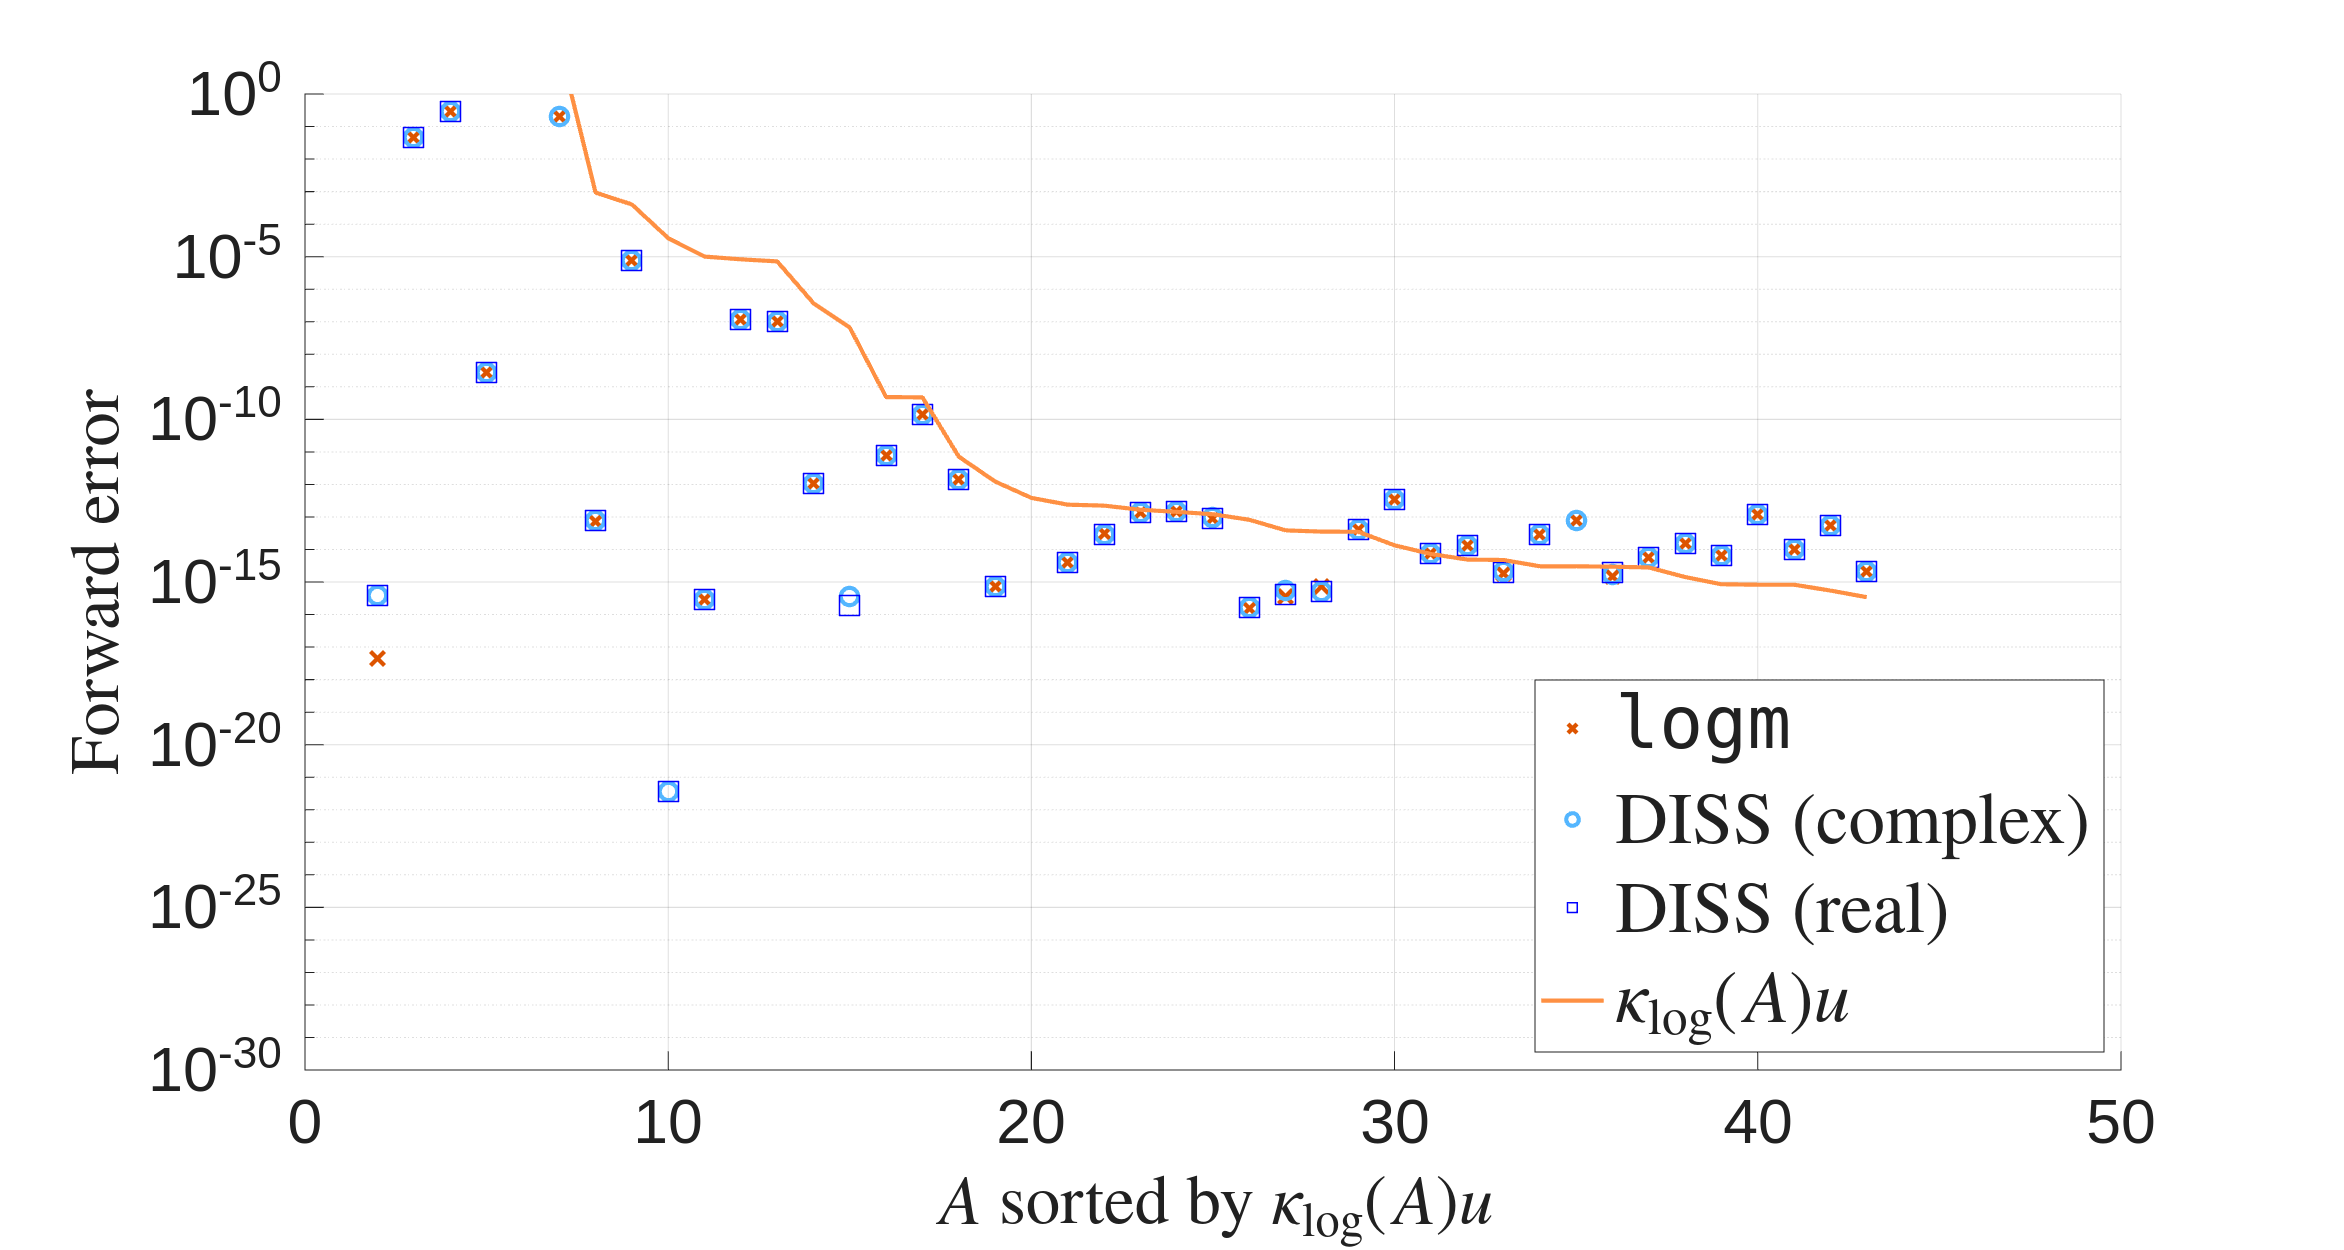
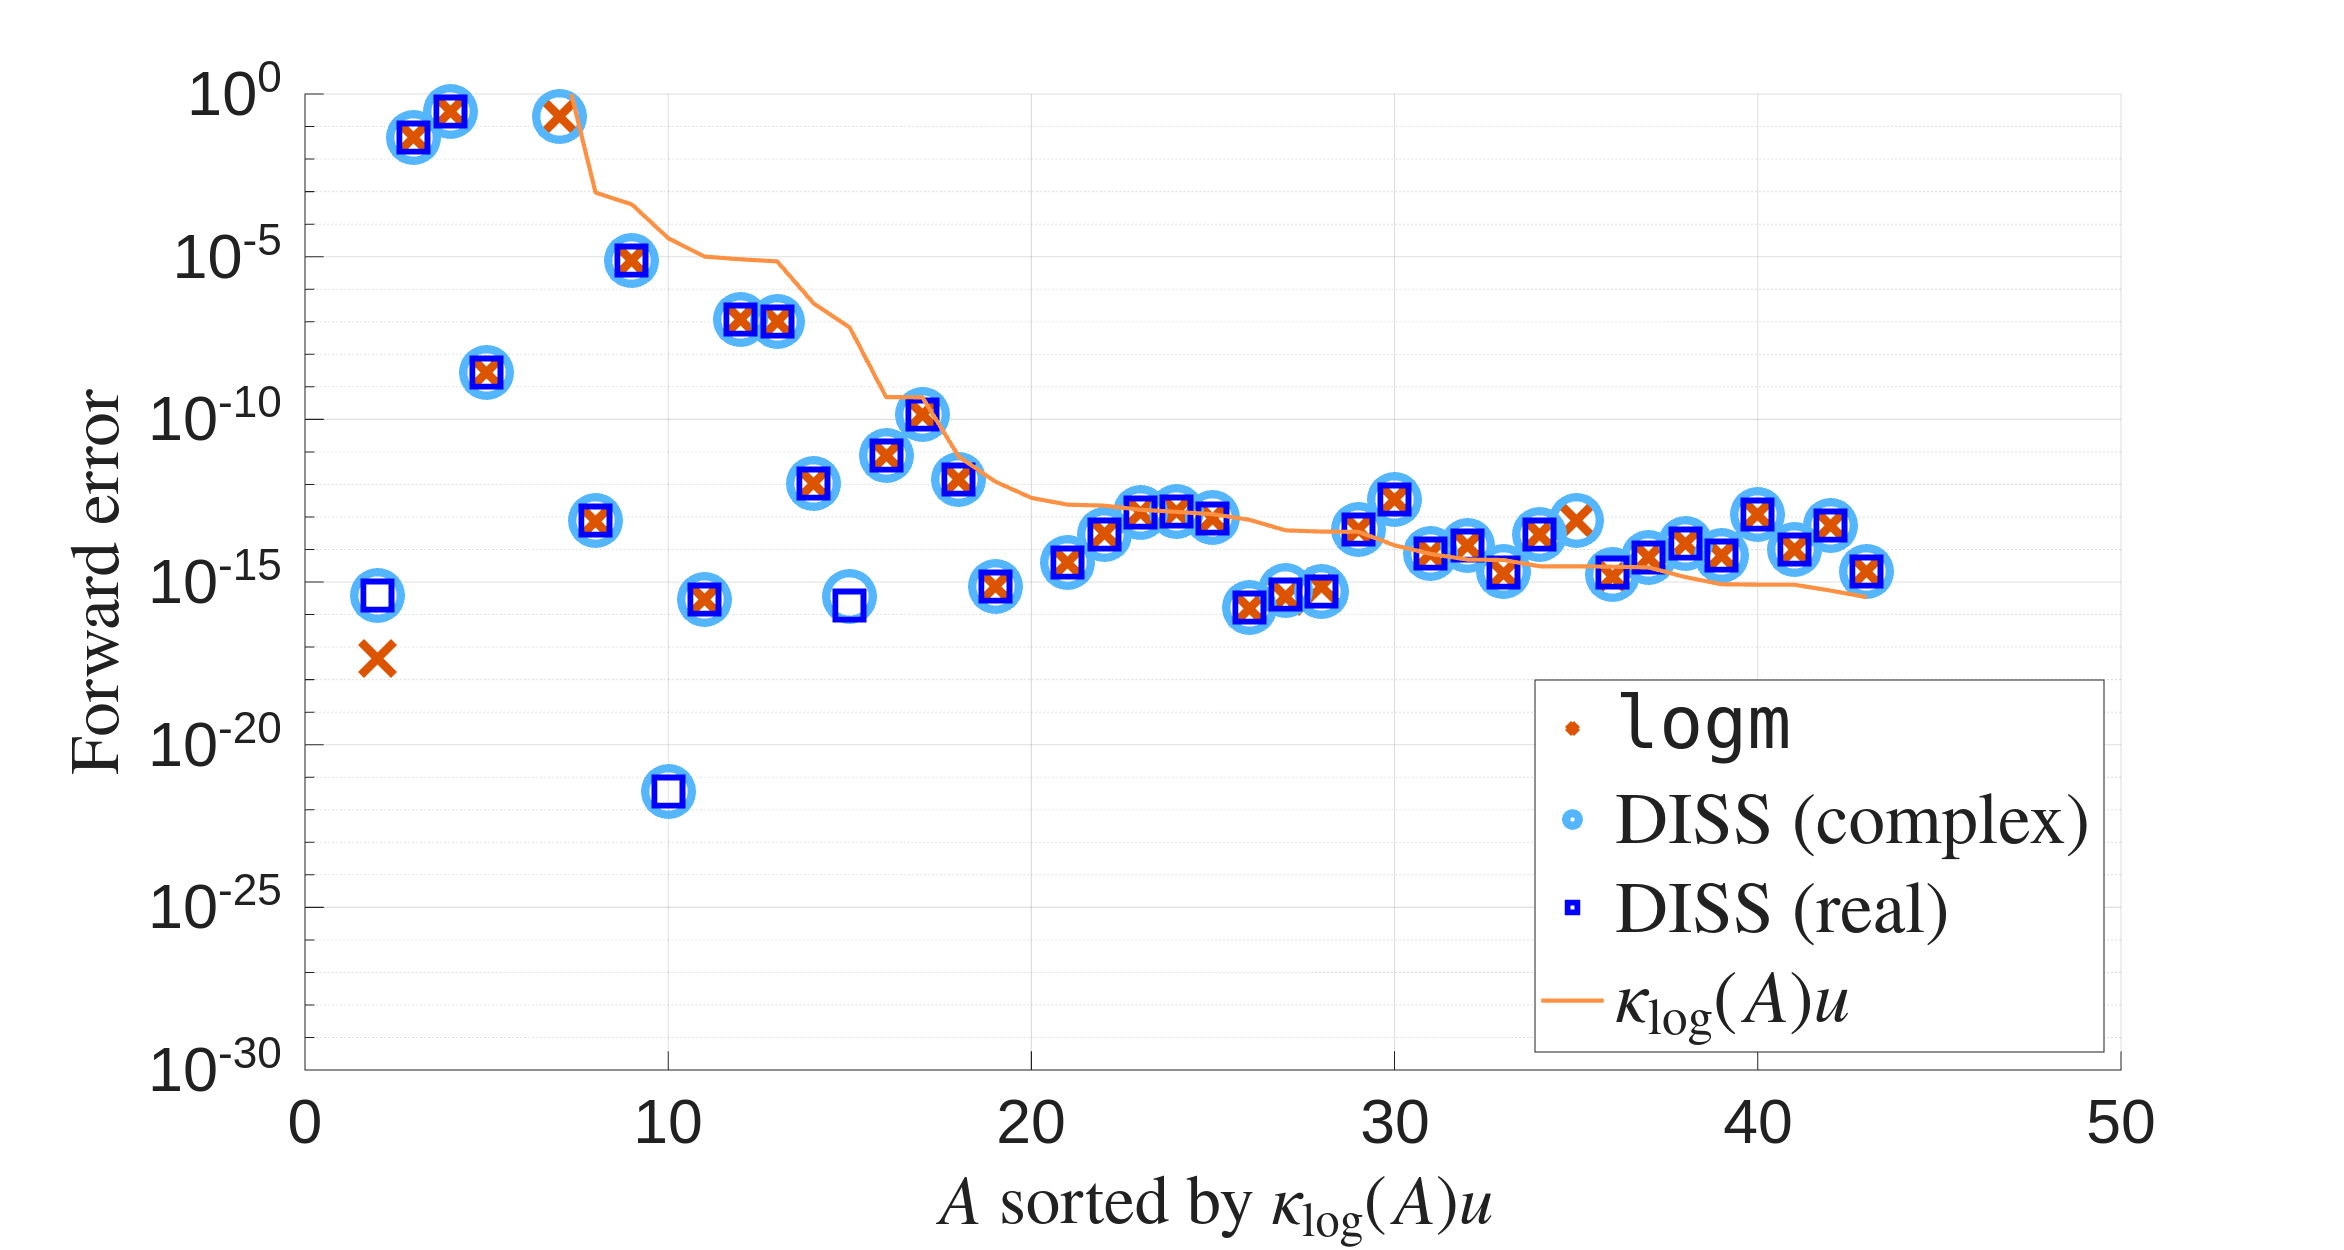
Final changes to plots

diff --git a/code/generate_plots.m b/code/generate_plots.m
@@ -37,11 +37,15 @@ u = 2^(-53);
 
 fig1 = figure('Visible','off', 'Position',[0 0 1500 800]);
 
-scatter(0:num_measurements-1, errors(1,indices), 'x', 'DisplayName','\texttt{logm}','LineWidth', 2,'SizeData',90);
+sc1 = scatter(0:num_measurements-1, errors(1,indices), 500, 'x', 'LineWidth', 500, 'DisplayName','\texttt{logm}','LineWidth', 2);
+sc1.LineWidth = 4;
 hold on;
-scatter(0:num_measurements-1, errors(2,indices),'o', 'DisplayName','DISS (complex)','LineWidth', 2,'SizeData',70);
-scatter(0:num_measurements-1, errors(3,indices), 'b', 'square', ...%'filled', 
-    'DisplayName', 'DISS (real)','LineWidth', 1,'SizeData',150);
+
+sc2 = scatter(0:num_measurements-1, errors(2,indices), 500, 'o', 'LineWidth', 150, 'DisplayName','DISS (complex)','LineWidth', 2);
+sc2.LineWidth = 4;
+
+scatter(0:num_measurements-1, errors(3,indices), 300, 'b', 'square', ... 
+    'DisplayName', 'DISS (real)','LineWidth', 4);
 colororder("reef")
 xlabel('$A$ sorted by $\kappa_{\log}(A)u$', 'Interpreter','latex', 'FontSize', 35);
 ylabel('Forward error', 'Interpreter', 'latex', 'FontSize',35);
